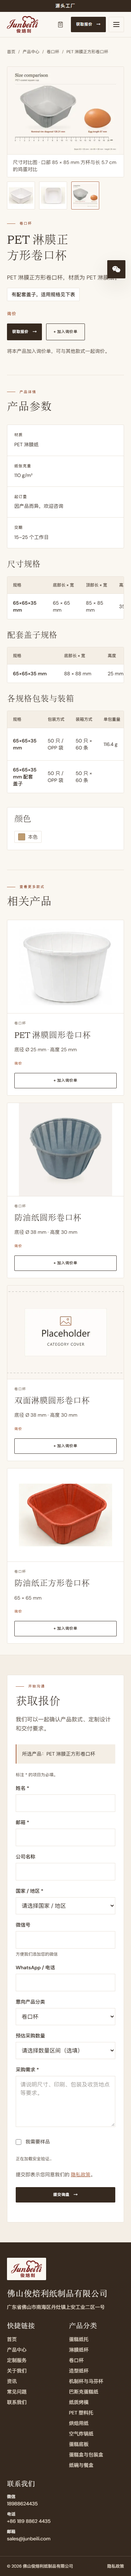
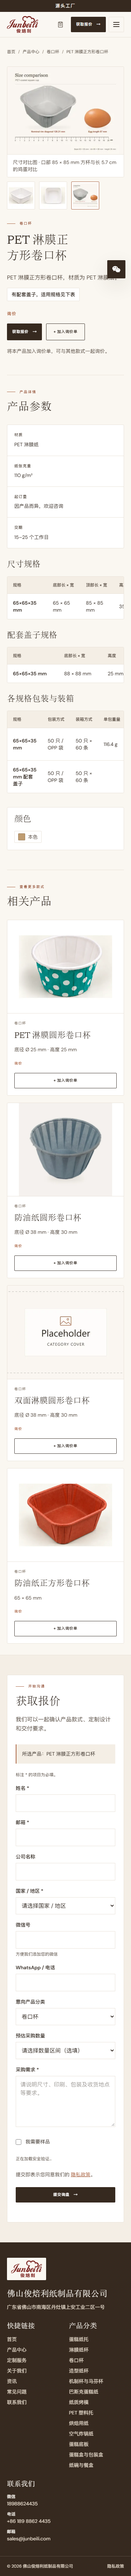
review-fix: refresh M14 Workers preview evidence

Changed region(s): [[0.1467, 0.3435, 0.7333, 0.4059], [0.7627, 0.3747, 0.8507, 0.4059]]

diff --git a/docs/reviews/M14.md b/docs/reviews/M14.md
@@ -78,7 +78,7 @@
 - [x] 对照 M13 合并基线逐个比对 127 款数据。六张旧展示已撤下并删除，五个尺寸对比条目与文件均一致。PET 圆杯首图及双语波点图案可见。扫描 303 个公开 HTML 和静态 WebP，旧成品与新候选均无公开引用。
 - [x] 六张入选 WebP 尺寸为 1200×900，单张小于 250 KB，元数据检查通过。体积、尺寸、画面及超差记录已归档。
 - [x] `allowIndexing` 为 `false`，构建输出含 `X-Robots-Tag: noindex` 和 `Disallow: /`。
-- [x] GitHub CI 和 Workers 构建通过。提交 `fd3f9e1` 的预览中，三款产品的中英文页面和 `robots.txt` 均返回 HTTP 200 及 `noindex`，产品尺寸对比数分别为 2、1、1，展示图数量为 0。预览直接访问审核总览和抽查的成品候选文件返回 404。[GitHub CI](https://github.com/pengshang01-cyber/dulizhan/actions/runs/45346069130)
+- [x] GitHub CI 和 Workers 构建通过。补充提交 `83c5871` 的预览中，三款产品的中英文页面和 `robots.txt` 均返回 HTTP 200 及 `noindex`。尺寸对比图数量分别为 2、1、1，展示图数量为 0，圆杯的波点首图和双语图案均已验证。直接访问审核总览返回 404。[GitHub CI](https://github.com/pengshang01-cyber/dulizhan/actions/runs/45350775075)
 
 ```text
 [build] 303 page(s) built
@@ -97,7 +97,7 @@ Result: 0 errors
 
 三款实拍、新锚定、两幅成图及测量结果并排展示。[试点总览](M14/scene-pilot.jpg)
 
-从 Workers PR 预览运行 `npm run screenshots -- M14`。桌面与手机截图均切到原有尺寸对比图，检查了图库交互、图片解码及页面横向溢出。
+从补充提交的 Workers PR 预览重跑 `npm run screenshots -- M14`。桌面与手机截图均切到原有尺寸对比图，检查了图库交互、图片解码及页面横向溢出。
 
 | 页面 | 桌面 1440px | 手机 375px |
 | --- | --- | --- |
@@ -128,3 +128,4 @@ Result: 0 errors
 
 - 按工厂补充要求删除六张无引用展示图文件，保留历史记录和五张已核实尺寸对比图。
 - 记录波点图案并前移已有波点产品图，关闭五个补拍事项。补充逐张审美自评及重试记录。
+- 六项检查通过，新预览复核三款的双语图库与禁收录响应，并重新归档桌面和手机的六张截图。

diff --git a/docs/notes/status.md b/docs/notes/status.md
@@ -11,6 +11,6 @@
 - M11 已合并。184 个规格编号完成匹配，新增 9 款产品，85 款展示确认色样。[PR #19](https://github.com/pengshang01-cyber/dulizhan/pull/19) · [M11 审核报告](../reviews/M11.md)
 - M12 已合并。实拍精修、图册补图、六组定制示例及工厂图库的审核证据已归档。28 款缺产品图，首页缺工厂外景。[PR #20](https://github.com/pengshang01-cyber/dulizhan/pull/20) · [M12 审核报告](../reviews/M12.md)
 - M13 已合并。五张尺寸对比图保留。工厂反馈原六张成品展示的构图和光影需要重做。[PR #21](https://github.com/pengshang01-cyber/dulizhan/pull/21) · [M13 审核报告](../reviews/M13.md)
-- M14 提交审核。六张无使用引用的旧展示图文件已删除，保留五张原尺寸对比图。三张茶匙锚定图最大偏差 0.068%，六张装食物的候选最大偏差 11.09%。六项本地检查通过，候选待工厂审核。[PR #22](https://github.com/pengshang01-cyber/dulizhan/pull/22) · [M14 审核报告](../reviews/M14.md)
+- M14 提交审核。六张无使用引用的旧展示图文件已删除，保留五张原尺寸对比图。三张茶匙锚定图最大偏差 0.068%，六张装食物的候选最大偏差 11.09%。六项检查、GitHub CI 和 Workers 预览通过，补充后的六张预览截图已归档。候选待工厂审核。[PR #22](https://github.com/pengshang01-cyber/dulizhan/pull/22) · [M14 审核报告](../reviews/M14.md)
 - 圆杯添加双语波点图案并以图库已有波点图作首图。工厂确认五个缺独立照片的规格以尺寸表为准，关闭 M13 补拍待确认项。
 - 工厂继续按 M12 缺图名单补实拍，核对规格和缺型号项。资料齐全后按 `docs/LAUNCH.md` 操作，当前收录开关为 `false`。
